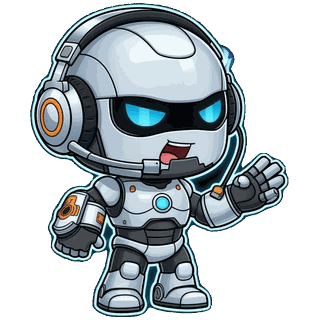
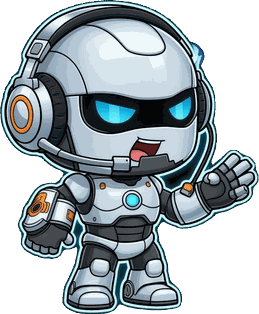
Words: the ranking front and centre

diff --git a/static/site.css b/static/site.css
@@ -254,7 +254,9 @@ td.hw-nofit { color: var(--muted); font-style: italic; }
   border: none;
   background: transparent;
   padding: 6px 4px 0;
-  width: 100%; max-width: 440px; margin-inline: auto;   /* centered in the hero column */
+  /* Was 440px with a 420px plot — 32 models at roughly 13px each, which made the
+     site's headline artefact the smallest thing on its own page. */
+  width: 100%; max-width: 820px; margin-inline: auto;
 }
 .vs-title {
   font-family: var(--font-mono); font-size: 10.5px; letter-spacing: 0.18em;
@@ -268,40 +270,42 @@ td.hw-nofit { color: var(--muted); font-style: italic; }
 .vs-axis .val { color: var(--ink-dim); }
 .vs-axis.top { margin-bottom: 6px; }
 .vs-axis.bottom { margin-top: 6px; }
-.vs-plot { position: relative; height: 420px; }
+/* Height scales with the roster: --vs-rows is set from the model count at
+   render time, so enrolling models spreads the ladder instead of crushing it. */
+.vs-plot { position: relative; height: clamp(420px, calc(var(--vs-rows, 24) * 25px), 900px); }
 .vs-rail {
-  position: absolute; left: 18px; top: 0; bottom: 0; width: 6px; border-radius: 4px;
+  position: absolute; left: 20px; top: 0; bottom: 0; width: 8px; border-radius: 4px;
   background: linear-gradient(to top, var(--cold) 0%, #6b533f 46%, var(--ember) 78%, var(--ember-bright) 100%);
   box-shadow: 0 0 34px rgba(245, 163, 75, 0.16), 0 0 90px rgba(245, 163, 75, 0.07);
 }
 .vs-whisker {                       /* CI extent as a bright core on the rail */
-  position: absolute; left: 21px; width: 2px; transform: translateX(-50%);
+  position: absolute; left: 24px; width: 2.5px; transform: translateX(-50%);
   background: rgba(255, 201, 126, 0.55); border-radius: 2px;
 }
 /* no end caps and no separate position tick — the dot and the bright whisker
    core carry the meaning; extra marks read as stray dashes at a glance */
 .vs-htick { display: none; }
 .vs-leader {                        /* connects a nudged label back to its dot */
-  position: absolute; left: 37px; width: 1.5px; transform: translateX(-50%);
+  position: absolute; left: 42px; width: 1.5px; transform: translateX(-50%);
   background: rgba(255, 255, 255, 0.16); border-radius: 1px;
 }
 .vs-dot {
-  position: absolute; left: 21px; width: 11px; height: 11px; border-radius: 50%;
+  position: absolute; left: 24px; width: 13px; height: 13px; border-radius: 50%;
   transform: translate(-50%, 50%);
   background: var(--ember); border: 1px solid rgba(11, 14, 20, 0.7);
 }
 .vs-dot.cold { background: var(--muted); }
 .vs-label {
-  position: absolute; left: 42px; transform: translateY(50%);
+  position: absolute; left: 48px; transform: translateY(50%);
   display: flex; flex-direction: row; align-items: baseline; gap: 7px;
   max-width: calc(100% - 48px); white-space: nowrap;
 }
 .vs-label .nm {
-  font-family: var(--font-mono); font-size: 12px; color: var(--ink);
+  font-family: var(--font-mono); font-size: 13.5px; color: var(--ink);
   min-width: 0; flex: 0 1 auto; overflow: hidden; text-overflow: ellipsis;
 }
 a.vs-label:hover .nm { color: var(--ember); }
-.vs-label .el { font-family: var(--font-mono); font-size: 11.5px; color: var(--ember); font-weight: 600; flex: 0 0 auto; }
+.vs-label .el { font-family: var(--font-mono); font-size: 13px; color: var(--ember); font-weight: 600; flex: 0 0 auto; }
 
 /* ============================ SECTIONS =================================== */
 section.block { padding: 8px 0 72px; }
@@ -1393,7 +1397,12 @@ a.pipe-step:hover .pipe-name { color: var(--ink); }
   max-width: 50rem; margin: 26px auto 0; padding: 0 4px;
 }
 .hero-bot {
-  width: 132px; height: auto; flex: 0 0 auto;
+  /* Constrained by HEIGHT, not width. The three poses have different aspect
+     ratios — a 235x347 standing figure and a 411x461 waving one at the same
+     WIDTH occupy very different amounts of vertical space, which is why the
+     Words character read as noticeably bigger than the other two. */
+  height: 118px; width: auto; max-width: 40%; flex: 0 0 auto;
+  object-fit: contain;
   filter: drop-shadow(0 6px 18px rgba(0, 0, 0, .45));
 }
 .hero-viz {
@@ -1401,7 +1410,7 @@ a.pipe-step:hover .pipe-name { color: var(--ink); }
 }
 @media (max-width: 620px) {
   .hero-signal { gap: 10px; }
-  .hero-bot { width: 84px; }
+  .hero-bot { height: 78px; }
   .hero-viz { height: 62px; }
 }
 
@@ -1438,3 +1447,14 @@ a.pipe-step:hover .pipe-name { color: var(--ink); }
 }
 .dialog-x:hover { color: var(--ink); }
 
+
+
+/* A section head that centres, for the one section that is the page's subject
+   rather than one of several stacked blocks. */
+.section-head--centre {
+  flex-direction: column; align-items: center; text-align: center; gap: 6px;
+  margin-bottom: 22px;
+}
+.section-head--centre .note { max-width: 56ch; }
+.block-rail { padding-top: 4px; }
+.block-rail .judging-strip { text-align: center; margin: 18px auto 0; max-width: 62ch; }

diff --git a/index.html b/index.html
@@ -8,7 +8,7 @@
   
   <link rel="icon" type="image/png" href="static/img/bot-favicon.png">
   <link rel="apple-touch-icon" href="static/img/bot-head.png">
-  <link rel="stylesheet" href="static/site.css?v=85421154ba">
+  <link rel="stylesheet" href="static/site.css?v=7e56e9abe5">
   
   
   <script>window.OG = { modelPage: "model.html" };</script>
@@ -39,9 +39,9 @@
       
       <h1>Then, which one would you rather <span class="warm">talk to</span>?</h1>
       <p class="lede">
-        Two AI models you can run on your own computer, for free. Same person, saying the
-        same things to both. Read the two answers and pick whichever sounds more like a
-        friend — then we'll tell you what you picked.
+        Free models you can run on your own computer, ranked on one question: which of them
+        is worth talking to? Same scenarios, same judge, same instructions for every model —
+        and the whole ladder is below, most human at the top.
       </p>
   <div class="hero-signal hero-signal--words">
     <img class="hero-bot" src="static/img/pose-a5.webp" alt=""
@@ -77,26 +77,28 @@
   </div>
 
   
-  <div class="wrap wrap-wide">
-    <div id="showcase"></div>
-  </div>
-
   <div class="wrap">
-    <section class="hero hero-after">
+    <section class="block block-rail">
+      <div class="section-head section-head--centre">
+        <h2>How human each one sounds</h2>
+        <span class="note">
+          Every model we have run, on one scale. Higher is more human — the number is a
+          normalised Elo from head-to-head judging, not a percentage.
+        </span>
+      </div>
+      <div id="verdict-strip" class="verdict-strip"><div class="state">Loading…</div></div>
       <p class="judging-strip" data-judging-strip>
         Graded by <span data-judge-model>gpt-5.4</span>, using the same instructions for every model.
       </p>
-      <div id="verdict-strip" class="verdict-strip"><div class="state">Loading…</div></div>
     </section>
   </div>
 
   <div class="wrap wrap-wide">
-    <div id="pick-card"></div>
     <section class="block">
       <div class="section-head">
         <span class="idx">//</span>
-        <h2>The leaderboard</h2>
-        <span class="note">Every model we tested. Click a heading to sort.</span>
+        <h2>The full table</h2>
+        <span class="note">Every column we record, for every model. Click a heading to sort.</span>
       </div>
       
       <p class="speed-anchor">
@@ -140,6 +142,6 @@
   </footer>
 
   
-  <script src="static/site.js?v=d0cb875044" defer></script>
+  <script src="static/site.js?v=25d472b372" defer></script>
 </body>
 </html>

diff --git a/static/site.js b/static/site.js
@@ -902,7 +902,17 @@ function renderVerdictStrip(models) {
   // The ladder plots the ranking. A provisional model has no standing in it — including it
   // would draw an incomplete measurement as a peer of the fully-judged ones.
   const pts = (models || []).filter((m) => m.normalized_elo != null && m.ranked !== false);
-  if (!pts.length) { mount.replaceChildren(el("div", { class: "state", text: "No ranked models yet." })); return; }
+  if (!pts.length) {
+    mount.replaceChildren(el("div", { class: "state state-empty" },
+      el("img", { src: "static/img/pose-a3.webp", alt: "", width: "120", height: "72",
+                  class: "state-bot", loading: "lazy" }),
+      el("p", { text: "No ranked models yet." })));
+    return;
+  }
+  // The plot height scales with the roster rather than being a fixed 420px: at
+  // 32 models that was ~13px a row, which crushed the labels into each other.
+  // Enrolling models should spread the ladder, not compress it.
+  mount.style.setProperty("--vs-rows", String(pts.length));
 
   const clamp01 = (x) => Math.max(0, Math.min(1, x));
   const nz = (v, f) => (v != null ? Number(v) : Number(f));

diff --git a/model.html b/model.html
@@ -8,7 +8,7 @@
   
   <link rel="icon" type="image/png" href="static/img/bot-favicon.png">
   <link rel="apple-touch-icon" href="static/img/bot-head.png">
-  <link rel="stylesheet" href="static/site.css?v=85421154ba">
+  <link rel="stylesheet" href="static/site.css?v=7e56e9abe5">
   
   <script src="vendor/chart.umd.min.js" defer></script>
 
@@ -59,6 +59,6 @@
   </footer>
 
   
-  <script src="static/site.js?v=d0cb875044" defer></script>
+  <script src="static/site.js?v=25d472b372" defer></script>
 </body>
 </html>

diff --git a/asr.html b/asr.html
@@ -8,7 +8,7 @@
   
   <link rel="icon" type="image/png" href="static/img/bot-favicon.png">
   <link rel="apple-touch-icon" href="static/img/bot-head.png">
-  <link rel="stylesheet" href="static/site.css?v=85421154ba">
+  <link rel="stylesheet" href="static/site.css?v=7e56e9abe5">
   
 </head>
 
@@ -165,6 +165,6 @@
   </footer>
 
   
-  <script src="static/site.js?v=d0cb875044" defer></script>
+  <script src="static/site.js?v=25d472b372" defer></script>
 </body>
 </html>

diff --git a/methodology.html b/methodology.html
@@ -8,7 +8,7 @@
   
   <link rel="icon" type="image/png" href="static/img/bot-favicon.png">
   <link rel="apple-touch-icon" href="static/img/bot-head.png">
-  <link rel="stylesheet" href="static/site.css?v=85421154ba">
+  <link rel="stylesheet" href="static/site.css?v=7e56e9abe5">
   
 </head>
 
@@ -137,6 +137,6 @@
   </footer>
 
   
-  <script src="static/site.js?v=d0cb875044" defer></script>
+  <script src="static/site.js?v=25d472b372" defer></script>
 </body>
 </html>

diff --git a/tts-guide.html b/tts-guide.html
@@ -8,7 +8,7 @@
   
   <link rel="icon" type="image/png" href="static/img/bot-favicon.png">
   <link rel="apple-touch-icon" href="static/img/bot-head.png">
-  <link rel="stylesheet" href="static/site.css?v=85421154ba">
+  <link rel="stylesheet" href="static/site.css?v=7e56e9abe5">
   
 </head>
 
@@ -223,6 +223,6 @@
   </footer>
 
   
-  <script src="static/site.js?v=d0cb875044" defer></script>
+  <script src="static/site.js?v=25d472b372" defer></script>
 </body>
 </html>

diff --git a/tts-legal.html b/tts-legal.html
@@ -8,7 +8,7 @@
   
   <link rel="icon" type="image/png" href="static/img/bot-favicon.png">
   <link rel="apple-touch-icon" href="static/img/bot-head.png">
-  <link rel="stylesheet" href="static/site.css?v=85421154ba">
+  <link rel="stylesheet" href="static/site.css?v=7e56e9abe5">
   
 </head>
 
@@ -260,6 +260,6 @@
   </footer>
 
   
-  <script src="static/site.js?v=d0cb875044" defer></script>
+  <script src="static/site.js?v=25d472b372" defer></script>
 </body>
 </html>

diff --git a/tts.html b/tts.html
@@ -8,7 +8,7 @@
   
   <link rel="icon" type="image/png" href="static/img/bot-favicon.png">
   <link rel="apple-touch-icon" href="static/img/bot-head.png">
-  <link rel="stylesheet" href="static/site.css?v=85421154ba">
+  <link rel="stylesheet" href="static/site.css?v=7e56e9abe5">
   
 </head>
 
@@ -158,6 +158,6 @@
   </footer>
 
   
-  <script src="static/site.js?v=d0cb875044" defer></script>
+  <script src="static/site.js?v=25d472b372" defer></script>
 </body>
 </html>

diff --git a/compare.html b/compare.html
@@ -8,7 +8,7 @@
   
   <link rel="icon" type="image/png" href="static/img/bot-favicon.png">
   <link rel="apple-touch-icon" href="static/img/bot-head.png">
-  <link rel="stylesheet" href="static/site.css?v=85421154ba">
+  <link rel="stylesheet" href="static/site.css?v=7e56e9abe5">
   
 </head>
 
@@ -61,6 +61,6 @@
   </footer>
 
   
-  <script src="static/site.js?v=d0cb875044" defer></script>
+  <script src="static/site.js?v=25d472b372" defer></script>
 </body>
 </html>
